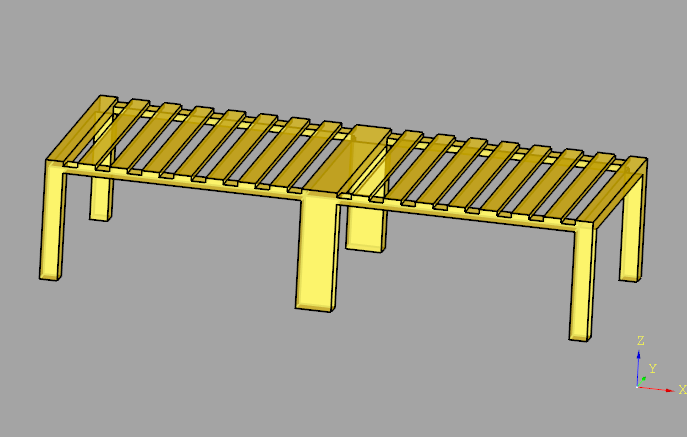
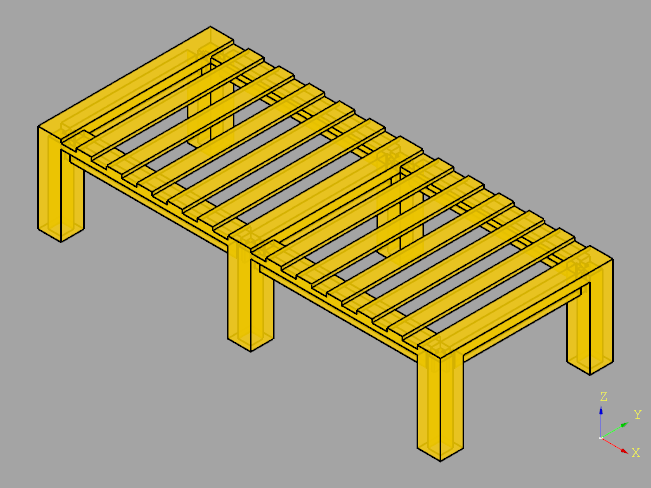
bed

diff --git a/student-bed.py b/student-bed.py
@@ -63,7 +63,7 @@ measures["rib.cut.width"]      = measures["@thickness.2"]
 measures["rib.cut.depth"]      = 4.5
 measures["rib.cut.air"]        = 0.2
 
-measures["batten.height"]      = measures["@thickness.1"]
+measures["batten.thickness"]   = measures["@thickness.1"]
 measures["batten.width.1"]     = measures["@width.1"]
 measures["batten.width.2"]     = measures["@width.2"]
 measures["batten.width.3"]     = measures["@width.3"]
@@ -99,28 +99,34 @@ class SimpleBed:
         return
     
     def build(self) -> None:
+
+        # stringer
         st = self.measures["stringer.thickness"]
         sw = self.measures["stringer.width"]
         sl = self.measures["stringer.length"]
         stringer = cq.Workplane("XY").box(sl,sw,st)
         #show_object(stringer,name="stringer",options={"alpha":0.2,"color":(255,170,0)})
 
+        # ledger
         lt = self.measures["ledger.thickness"]
         lw = self.measures["ledger.width"]
         ll = self.measures["ledger.length"]
-        ledger = cq.Workplane("XY").box(lw,ll,lt)
-        #show_object(ledger,name="ledger",options={"alpha":0.2,"color":(255,170,0)})
+        ledger_1 = cq.Workplane("XY").box(0.5*lw,ll,lt)
+        ledger_2 = cq.Workplane("XY").box(lw,ll,lt)
+        #show_object(ledger_2,name="ledger",options={"alpha":0.2,"color":(255,170,0)})
 
-        bh   = self.measures["batten.height"]
+        # batten
+        bt   = self.measures["batten.thickness"]
         bw_1 = self.measures["batten.width.1"]
         bw_2 = self.measures["batten.width.2"]
         bw_3 = self.measures["batten.width.3"]
         bl   = self.measures["batten.length"]
-        batten_1 = cq.Workplane("XY").box(bw_1,bl,bh)     # half  (only for 3D-printing)
-        batten_2 = cq.Workplane("XY").box(bw_2,bl,bh)     # small (middle)
-        batten_3 = cq.Workplane("XY").box(bw_3,bl,bh)     # large (outwards)
-        #show_object(batten_3,name="batten",options={"alpha":0.2,"color":(255,170,0)})
+        batten_1 = cq.Workplane("XY").box(bw_1,bl,bt)     # half  (only for 3D-printing)
+        batten_2 = cq.Workplane("XY").box(bw_2,bl,bt)     # small (middle)
+        batten_3 = cq.Workplane("XY").box(bw_3,bl,bt)     # large (outwards)
+        #show_object(batten_2,name="batten",options={"alpha":0.2,"color":(255,170,0)})
 
+        # jamb
         jt  = self.measures["jamb.thickness"]
         js  = self.measures["jamb.side"]
         jl  = self.measures["jamb.length"]
@@ -138,6 +144,7 @@ class SimpleBed:
         #show_object(jc,name="cutter",options={"alpha":0.2,"color":(255,170,0)})    
         #show_object(jamb_middle,name="jamb",options={"alpha":0.2,"color":(255,170,0)})
 
+        # rib
         rt   = self.measures["rib.thickness"]
         rw   = self.measures["rib.width"]
         rl_1 = self.measures["rib.length.1"]
@@ -167,8 +174,9 @@ class SimpleBed:
         rib_stringer = rib_stringer.cut(rc.translate((-rsxo,-ryo+rd,0)))        # stringer cutter x- y-
         #show_object(rscxpym,name="cutter",options={"alpha":0.2,"color":(255,170,0)}) 
         #show_object(rib_ledger,name="rib",options={"alpha":0.2,"color":(255,170,0)})   
-        #show_object(rib_stinger,name="rib",options={"alpha":0.2,"color":(255,170,0)})
+        #show_object(rib_stringer,name="rib",options={"alpha":0.2,"color":(255,170,0)})
  
+        # frame
         fsl  = self.measures["stringer.length"]
         fll  = self.measures["ledger.length"]
         fjt  = self.measures["jamb.thickness"]
@@ -194,15 +202,56 @@ class SimpleBed:
         frame = frame.union(rib_stringer.translate((-frxo,+fyo,+fzo)))                          # rib stringer front right
         frame = frame.union(rib_stringer.translate((+frxo,-fyo,+fzo)))                          # rib stringer back  left
         frame = frame.union(rib_stringer.translate((-frxo,-fyo,+fzo)))                          # rib stringer back  right
-        show_object(frame,name="frame",options={"alpha":0.2,"color":(255,170,0)})
+        #show_object(frame,name="frame",options={"alpha":0.2,"color":(255,170,0)})
+
+        # duckboard
+        dst  = self.measures["stringer.thickness"]
+        dsl  = self.measures["stringer.length"]
+        dlt  = self.measures["ledger.thickness"]
+        dlw  = self.measures["ledger.width"]
+        dll  = self.measures["ledger.length"]
+        dbt  = self.measures["batten.thickness"]
+        dbw1 = self.measures["batten.width.1"]
+        dbw2 = self.measures["batten.width.2"]
+        dbw3 = self.measures["batten.width.3"]
+        dbg  = self.measures["batten.gap"]
+        dbe  = self.measures["batten.extra"]
+        djs  = self.measures["jamb.side"]
+        dxo  = 0.5*(dsl-djs)
+        dyo  = 0.5*(dll+djs)
+        dzo  = 0.5*(dst+dbt)
+        duckboard = stringer.translate((0,dyo,0))                                # stringer front
+        duckboard = duckboard.union(stringer.translate((0,-dyo,0)))              # stringer back
+        duckboard = duckboard.union(ledger_2.translate((+dxo,0,0)))              # ledger   right
+        duckboard = duckboard.union(ledger_1.translate((-dxo-0.25*dlw,0,0)))     # ledger   left
+        duckboard = duckboard.union(batten_3.translate((+dxo,0,dzo)))            # batten   right
+        duckboard = duckboard.union(batten_1.translate((-dxo-0.25*dlw,0,dzo)))   # batten   left
+        xo = -0.5*dsl+dbw1+dbe+dbg+0.5*dbw2
+        for i in range(5):
+            duckboard = duckboard.union(batten_2.translate((xo,0,dzo)))          # batten   middle
+            xo = xo+dbw2+dbg
+        #show_object(duckboard,name="duckboard",options={"alpha":0.2,"color":(255,170,0)})
 
         #ToDo: add new parts
         stringer_moved = stringer.translate((600,0,250))
-        ledger_moved   = ledger.translate((0,500,250))
+        ledger_moved   = ledger_2.translate((0,500,250))
         batten_moved   = batten_3.translate((0,500,350))
         parts = jamb.union(stringer_moved).union(ledger_moved).union(batten_moved)
         #show_object(parts,name="parts",options={"alpha":0.2,"color":(255,170,0)})
 
+        # bed
+        bjl  = self.measures["jamb.length"]
+        bst  = self.measures["stringer.thickness"]
+        bsl  = self.measures["stringer.length"]
+        bxo  = 0.5*bsl
+        bzo1  = 0.5*bjl
+        bzo2  = bjl+0.5*bst
+        bed = frame.translate((0,0,bzo1))                                                # frame
+        bed = bed.union(duckboard.translate((bxo,0,bzo2)))                               # half right
+        bed = bed.union(duckboard.rotate((0,0,0),(0,0,1),180).translate((-bxo,0,bzo2)))  # half left
+        show_object(bed,name="bed",options={"alpha":0.2,"color":(255,170,0)})
+
+        self.model = bed
         return
 
     pass

diff --git a/README.md b/README.md
@@ -168,14 +168,21 @@ The design is kept simple. The duckboard is split into 2 halves (not visible at 
 
 [parts](docs/parts.png)
 
-All battens are loaded on top of the stringers and ledgers.
+A jamb has a hollow body. The ribs can be plugged into the slots of the jamb.
 
+[jamb](docs/jamb.png)
+[rib](docs/rib.png)
+
+The frame is built with 6 jambs and 7 ribs.
+
+[frame](docs/frame.png)
+
+The duckboard covers only one half the bed. The battens are simply loaded on top of the stringers and ledgers.
+
+[stringer](docs/stringer.png)
+[ledger](docs/ledger.png)
 [duckboard](docs/duckboard.png)
 
-Putting a jamb below each corner and the half bed is ready.
-
-[half](docs/half.png)
-
-And both halves together make the complete bed.
+Both duckboards are loaded on top of the frame and the bed is ready. Mission complete, at least what is related to the design.
 
 [bed](docs/bed.png)
